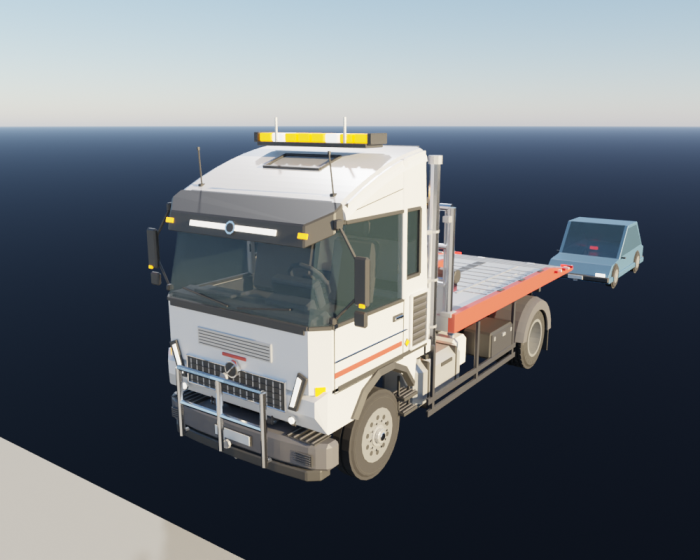
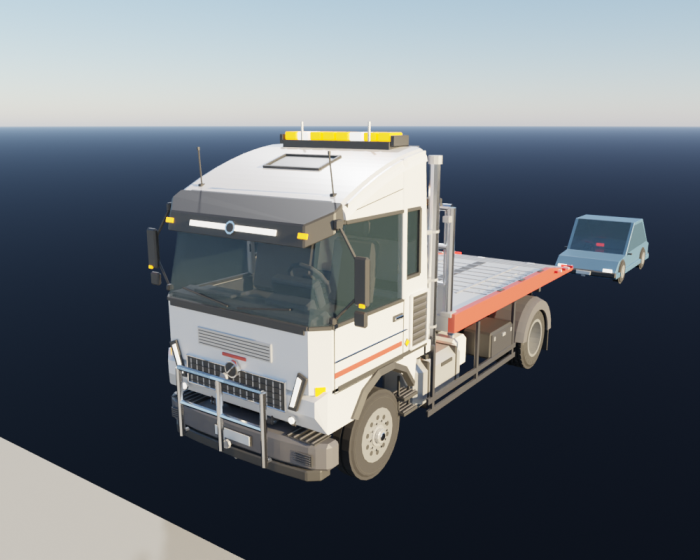
Blender: odtahovky - navijak navrchu celnej steny, vacsi odsun plosiny (mensi sklon), majaky osadene na streche
Claude-Session: https://claude.ai/code/session_01LJyXRKJzkeHGHPvKuFtRQJ

Changed region(s): [[0.36, 0.2125, 0.6, 0.3036], [0.78, 0.3643, 0.93, 0.5161], [0.6, 0.4554, 0.66, 0.5161]]

diff --git a/Blender/odtahovky_low_poly.py b/Blender/odtahovky_low_poly.py
@@ -2828,22 +2828,26 @@ def cab_local(p):
 
 
 def build_cab_extras(style):
-    # doplnky na streche kabiny (pivot ako kabina): eu = dva oranzove majaky, us = siroka svetelna lista
+    # doplnky na streche kabiny (pivot ako kabina), osadene na skutocny hrebien strechy (z = 3.71 v x = -0.8, strecha klesa dopredu):
+    # eu = dva oranzove majaky, us = siroka svetelna lista na styroch nohach
     bm = bmesh.new()
+    xr, zr = -0.80, 3.71
     if style == "eu":
         for s in SIDES_LR:
-            add_cylinder(bm, 0.15, 0.04, along_z(cab_local((-0.40, s * 0.60, 3.74))), DARK, segments=10, bev=0.004)
-            add_cylinder(bm, 0.12, 0.15, along_z(cab_local((-0.40, s * 0.60, 3.83))), LAMP_OR, segments=10, bev=0.01)
-            add_cylinder(bm, 0.05, 0.03, along_z(cab_local((-0.40, s * 0.60, 3.92))), DARK, segments=8)
-        add_box(bm, (0.10, 0.50, 0.03), cab_local((-0.40, 0.0, 3.735)), DARK, bev=0.004)
+            add_cylinder(bm, 0.15, 0.12, along_z(cab_local((xr, s * 0.60, zr + 0.01))), DARK, segments=10, bev=0.004)
+            add_cylinder(bm, 0.12, 0.15, along_z(cab_local((xr, s * 0.60, zr + 0.13))), LAMP_OR, segments=10, bev=0.01)
+            add_cylinder(bm, 0.05, 0.03, along_z(cab_local((xr, s * 0.60, zr + 0.22))), DARK, segments=8)
     else:
-        add_box(bm, (0.34, 1.60, 0.05), cab_local((-0.35, 0.0, 3.745)), DARK, bev=0.008)
+        add_box(bm, (0.34, 1.60, 0.12), cab_local((xr - 0.02, 0.0, zr + 0.01)), DARK, bev=0.008)
+        for s in SIDES_LR:
+            for dx in (-0.12, 0.12):
+                add_box(bm, (0.06, 0.06, 0.16), cab_local((xr - 0.02 + dx, s * 0.62, zr - 0.06)), STEEL, bev=0.004)
         for k in range(8):
             y = -0.70 + 0.20 * k
-            add_box(bm, (0.28, 0.17, 0.10), cab_local((-0.35, y, 3.82)), LAMP_OR if k % 4 != 1 else LAMP_WHITE, bev=0.012)
+            add_box(bm, (0.28, 0.17, 0.10), cab_local((xr - 0.02, y, zr + 0.12)), LAMP_OR if k % 4 != 1 else LAMP_WHITE, bev=0.012)
         for s in SIDES_LR:
-            add_box(bm, (0.32, 0.06, 0.12), cab_local((-0.35, s * 0.83, 3.82)), DARK, bev=0.008)
-            add_cylinder(bm, 0.018, 0.30, along_z(cab_local((-0.20, s * 0.50, 3.90))), CHROME, segments=6)
+            add_box(bm, (0.32, 0.06, 0.12), cab_local((xr - 0.02, s * 0.83, zr + 0.08)), DARK, bev=0.008)
+            add_cylinder(bm, 0.018, 0.30, along_z(cab_local((xr + 0.12, s * 0.50, zr + 0.14))), CHROME, segments=6)
     return finish_mesh(bm, "SM_Odt_od_kabina_" + style)
 
 
@@ -2925,7 +2929,7 @@ PART_MAKERS.append(od_shared_parts)
 
 PL_FRONT = -1.55                     # predna hrana plosiny
 PL_ZP, PL_BOT, PL_THICK = 1.22, 1.36, 0.20     # os klbu naklapania, spodok plosiny, hrubka
-PL_KEEP = 1.50                       # kolko plosiny ostane na podrame po odsune
+PL_KEEP = 0.90                       # kolko plosiny ostane na podrame po odsune (menej = plosina vyjde dalej = mensi sklon)
 PL_WEDGE = 1.25                      # dlzka skoseneho konca plosiny
 PL_CARS = {"4x2": dict(L=3.40, wb=2.15, fo=0.55, w=1.62, h=1.42, rw=0.28, paint=PAINT_BLUE),
            "6x2": dict(L=4.50, wb=2.70, fo=0.85, w=1.78, h=1.45, rw=0.31, paint=PAINT_RED)}
@@ -3026,9 +3030,8 @@ def build_pl_rack(style):
         add_box(bm, (0.05, 2.12, hr - 0.30), (-0.06, 0.0, 0.14 + (hr - 0.30) * 0.5), ACCENT, bev=0.01)
         for y in (-0.72, 0.0, 0.72):
             add_box(bm, (0.052, 0.46, 0.34), (-0.06, y, 0.52), DARK, bev=0.01)
-        for k in range(6):
+        for k in (0, 1, 4, 5):
             add_box(bm, (0.09, 0.22, 0.07), (0.0, -0.92 + 0.368 * k, hr + 0.09), LAMP_OR, bev=0.01)
-        add_box(bm, (0.10, 0.10, 0.10), (-0.06, 0.0, hr + 0.04), DARK, bev=0.01)
     else:
         for z in (0.40, 0.90, hr):
             add_rod(bm, (-0.06, -1.12, z), (-0.06, 1.12, z), 0.045 if z == hr else 0.035, CHROME, segments=10)
@@ -3036,8 +3039,9 @@ def build_pl_rack(style):
         diamond(bm, -0.14, -0.10, -1.0, 1.0, 0.43, STEEL, 0.14)
         for k in range(-8, 9):
             add_rod(bm, (-0.06, k * 0.13, 0.43), (-0.06, k * 0.13, hr - 0.02), 0.014, STEEL, segments=6)
-        add_box(bm, (0.14, 1.60, 0.07), (-0.02, 0.0, hr + 0.07), DARK, bev=0.01)
-        for k in range(8):
+        for s in SIDES_LR:
+            add_box(bm, (0.14, 0.50, 0.07), (-0.02, s * 0.72, hr + 0.07), DARK, bev=0.01)
+        for k in (0, 1, 6, 7):
             add_box(bm, (0.12, 0.17, 0.08), (0.04, -0.70 + 0.20 * k, hr + 0.07), LAMP_OR if k % 4 != 1 else LAMP_WHITE, bev=0.01)
     # drziak haku a retaze (vlavo na zadnej strane steny)
     add_box(bm, (0.12, 0.30, 0.04), (0.04, -0.52, 0.50), STEEL, bev=0.005)
@@ -3321,7 +3325,7 @@ def pl_rig(coll, truck, parts, body, root, prop, mats):
     xf, zt = g["xf"], g["zt"]
     accent(rails, truck, mats)
     accent(new_object(coll, name + "_celna_stena", parts["Odt_od_celna_stena_" + style], (xf, 0.0, zt), bed), truck, mats)
-    zw = 0.60 if style == "eu" else 0.85
+    zw = (1.00 if style == "eu" else 1.40) + 0.10          # navijak je navrchu celnej steny (vrch hornej priecky + police)
     winch = accent(new_object(coll, name + "_navijak", parts["Odt_od_navijak_" + style], (xf - 0.31, 0.0, zt + zw), bed), truck, mats)
     drum = new_object(coll, name + "_navijak_buben", parts["Odt_od_navijak_buben"], (0.0, 0.0, 0.22), winch)
     fair = empty(coll, name + "_navijak_vodiaca", (-0.28, 0.0, 0.12), winch)
@@ -3432,7 +3436,7 @@ def _pl_doc():
         "  Sklopny podram: prazdny objekt <Auto>_plosina_klb (pivot v osi klbu vzadu na rame, os Y, otaca sa o -Plosina_sklon x uhol, zadok ide dole). Jeho deti:",
         "    podram (diel Odt_od_podram_<podvozok>: dva nosniky s valcekmi, priecniky, cap), plosina (Odt_od_plosina_<styl>_<podvozok>, pohyb v X o -Plosina_odsun x odsun),",
         "    valce odsunu (zaklad na podrame vpredu). Plosina ma na zadnom konci skosenie (%.2f m) a spicka sa po odsune dotkne zeme." % PL_WEDGE,
-        "  Dieta plosiny: celna stena (pivot na prednej hrane na podlahe), navijak (maly, hore na celnej stene: pivot na jeho polici v strede, 0.31 m za prednou hranou a 0.60 m (eu) / 0.85 m (us) nad podlahou), jeho buben (otaca sa podla vzdialenosti haku),",
+        "  Dieta plosiny: celna stena (pivot na prednej hrane na podlahe), navijak (maly, navrchu celnej steny: pivot na jeho polici v strede, 0.31 m za prednou hranou a 1.10 m (eu) / 1.50 m (us) nad podlahou), jeho buben (otaca sa podla vzdialenosti haku),",
         "    prazdny objekt navijak_vodiaca (vystup lana, zaklad lana) a hak_drziak (miesto haku v pokoji).",
         "  Lano (Odt_od_lano, jednotkova dlzka v +Z): zaklad na vodiacej kladke, mieri (track Z) na hak, mierka Z = vzdialenost vodiacej kladky a haku.",
         "  Hak (Odt_od_hak) je dieta hak_drziak; constraint Copy Location 'Na_aute' (cielom je prazdny objekt auto_oko = tazne oko auta) ma vplyv = vlastnost Hak_k_autu (0 = v drziaku, 1 = na aute).",
